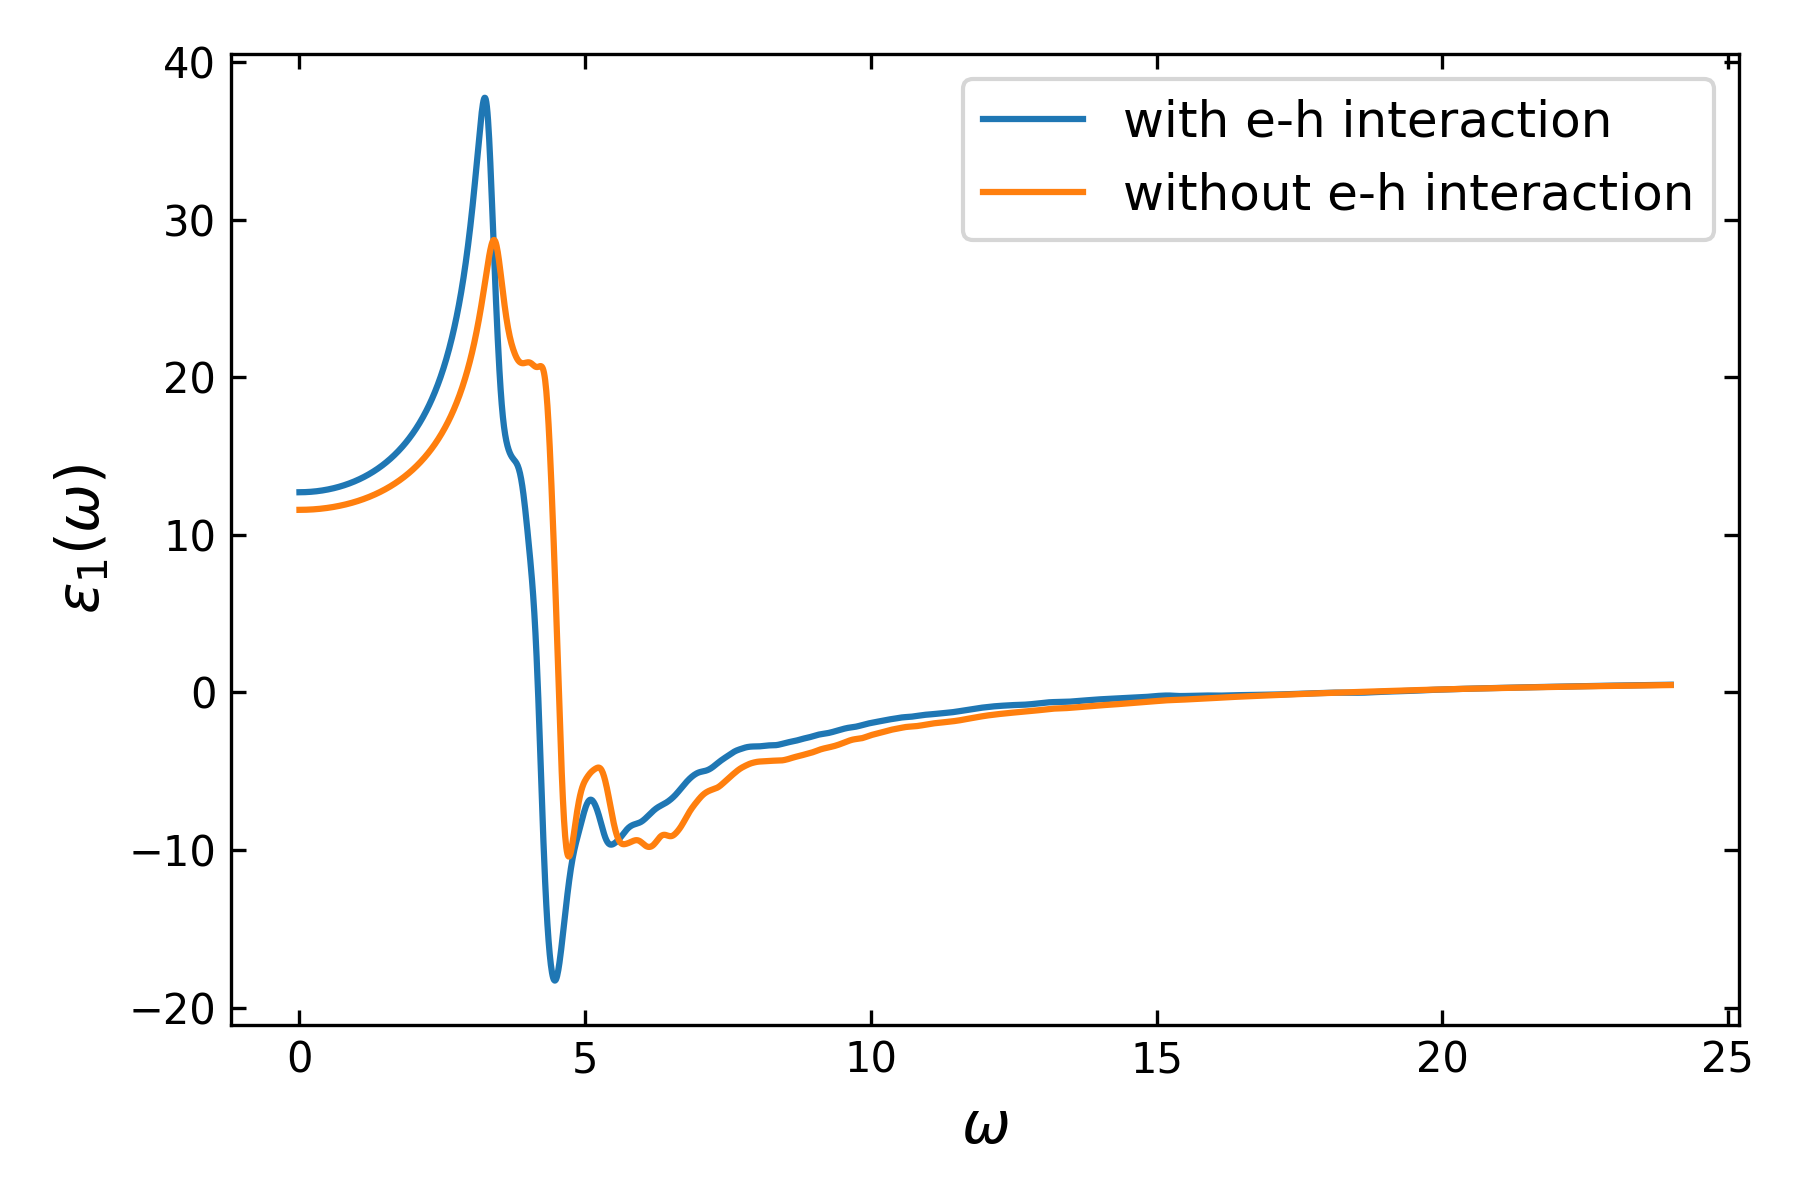
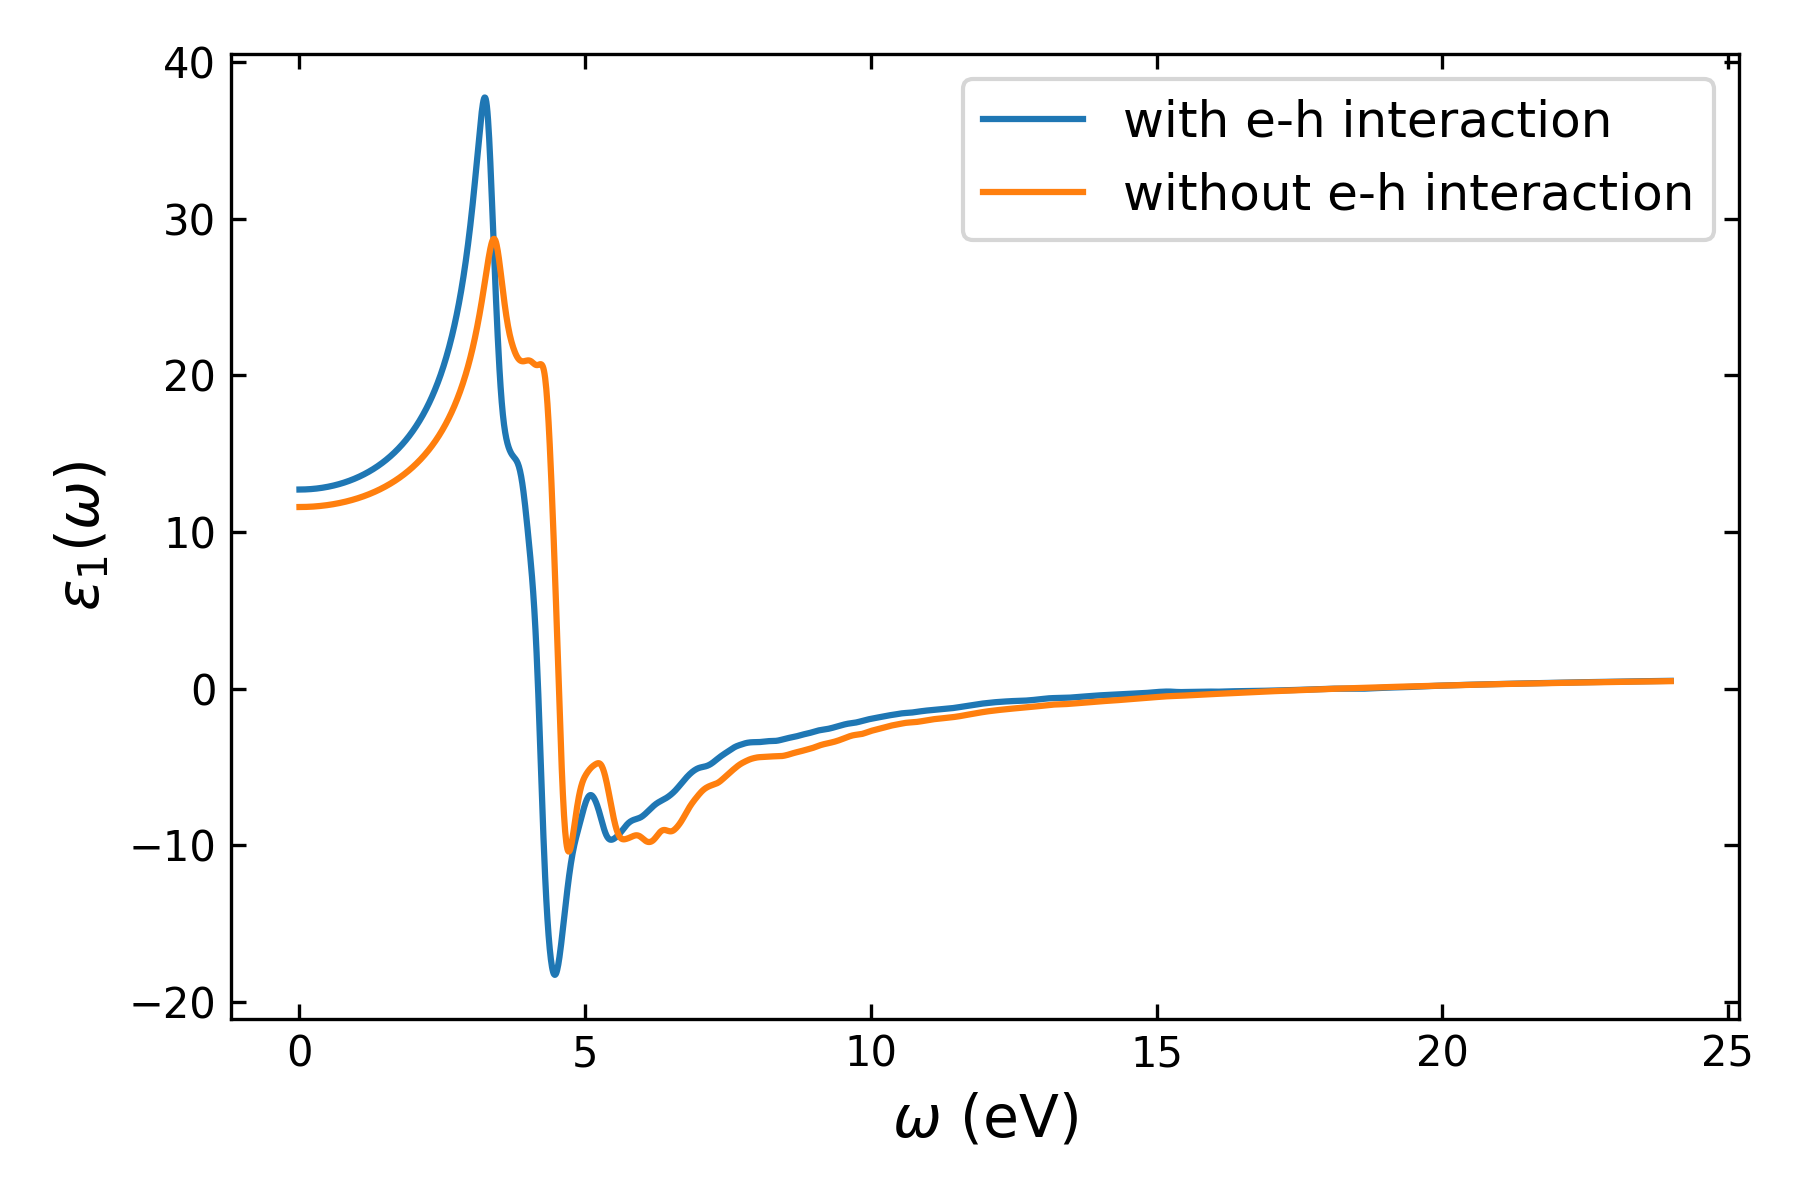
modified figures

diff --git a/gw-bse-silicon/13-plots/absorption.py b/gw-bse-silicon/13-plots/absorption.py
@@ -23,7 +23,7 @@ plt.figure(figsize=(6, 4))
 # plt.axvline(0.0, color='k', linewidth=1)
 plt.plot(omega_1, eps2_1, linewidth=1.5, label='with e-h interaction')
 plt.plot(omega_2, eps2_2, linewidth=1.5, label='without e-h interaction')
-plt.xlabel(r'$\omega$', fontsize=14)
+plt.xlabel(r'$\omega$ (eV)', fontsize=14)
 plt.ylabel(r'$\epsilon_2(\omega)$', fontsize=14)
 plt.tick_params(direction='in', top=True, right=True)
 plt.legend(fontsize=12)
@@ -37,7 +37,7 @@ plt.figure(figsize=(6, 4))
 # plt.axvline(0.0, color='k', linewidth=1)
 plt.plot(omega_1, eps1_1, linewidth=1.5, label='with e-h interaction')
 plt.plot(omega_2, eps1_2, linewidth=1.5, label='without e-h interaction')
-plt.xlabel(r'$\omega$', fontsize=14)
+plt.xlabel(r'$\omega$ (eV)', fontsize=14)
 plt.ylabel(r'$\epsilon_1(\omega)$', fontsize=14)
 plt.tick_params(direction='in', top=True, right=True)
 plt.legend(fontsize=12)
@@ -51,7 +51,7 @@ plt.figure(figsize=(6, 4))
 # plt.axvline(0.0, color='k', linewidth=1)
 plt.plot(omega_1, jdos_1, linewidth=1.5, label='with e-h interaction')
 plt.plot(omega_2, jdos_2, linewidth=1.5, label='without e-h interaction')
-plt.xlabel(r'$\omega$', fontsize=14)
+plt.xlabel(r'$\omega$ (eV)', fontsize=14)
 plt.ylabel('JDOS', fontsize=14)
 plt.tick_params(direction='in', top=True, right=True)
 plt.legend(fontsize=12)
